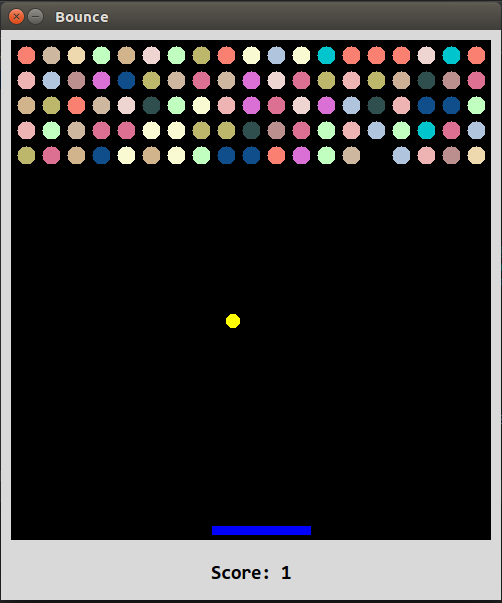
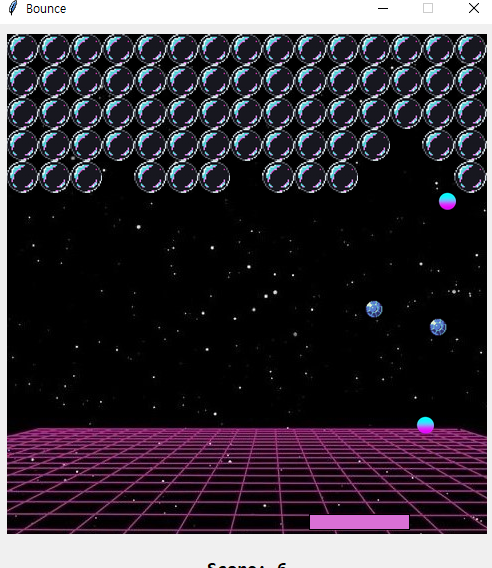
readme 파일 수정, 스크린샷 수정

diff --git a/README.md b/README.md
@@ -1,5 +1,16 @@
-# Bounce-Game
-A simple GUI application written in python using tkinter module
+# :8ball: Bounce-Game
+파이썬 tkinter 모듈을 이용한 간단한 GUI 어플리케이션입니다.
 
-# ScreenShot:
-![Alt text](/Screenshot.png?raw=true "Optional Title")
+## :framed_picture: 스크린샷:
+![Alt text](/Screenshot.png?raw=true "Bounce-Game 스크린샷")
+
+## :hammer_and_wrench: 요구사항 및 실행
+실행파일은 game.pyw 이며, 다음 패키지들이 필요합니다:
+- pillow 6.2.1
+- pyglet 1.5.14
+
+## :memo: 게임 방법 및 기능:
+- 키보드 화살표를 이용해 패들을 움직이고 공이 튕겨내 모든 블럭을 부수는게 목표입니다.
+- 플레이어에게 도움이 되는 아이템이 존재합니다.
+- 로컬 스코어 랭킹이 저장됩니다.
+- 메뉴바를 통해 특정 작업을 수행할 수 있습니다.
